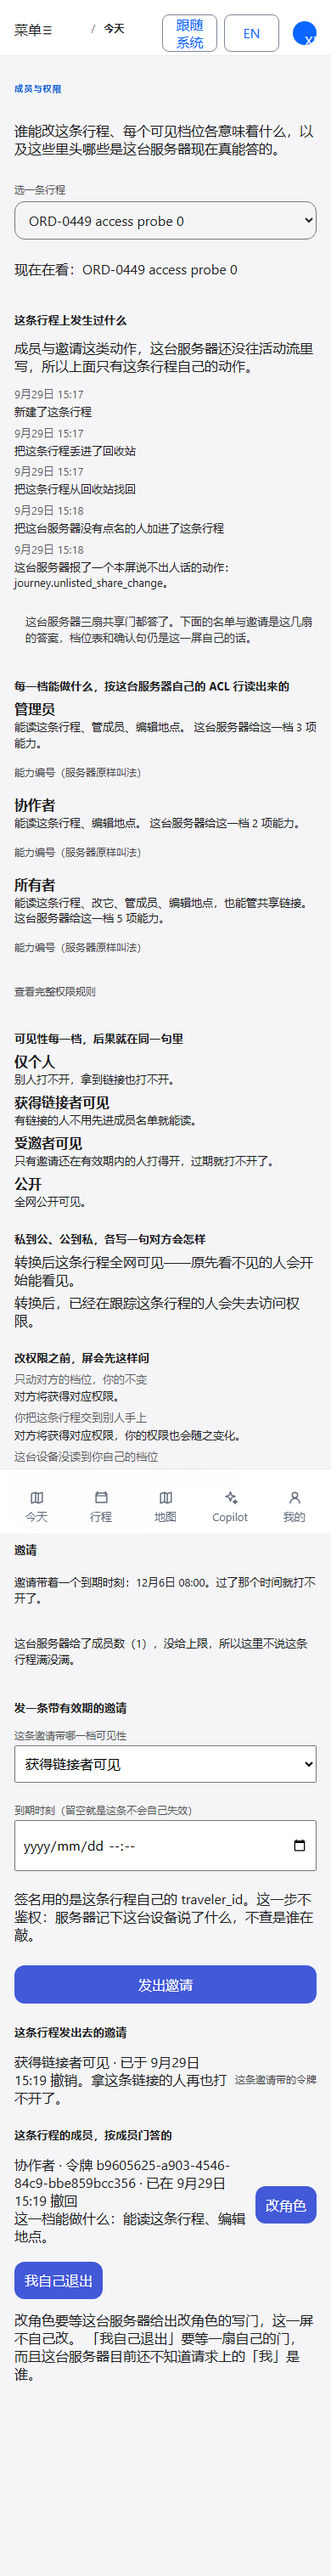
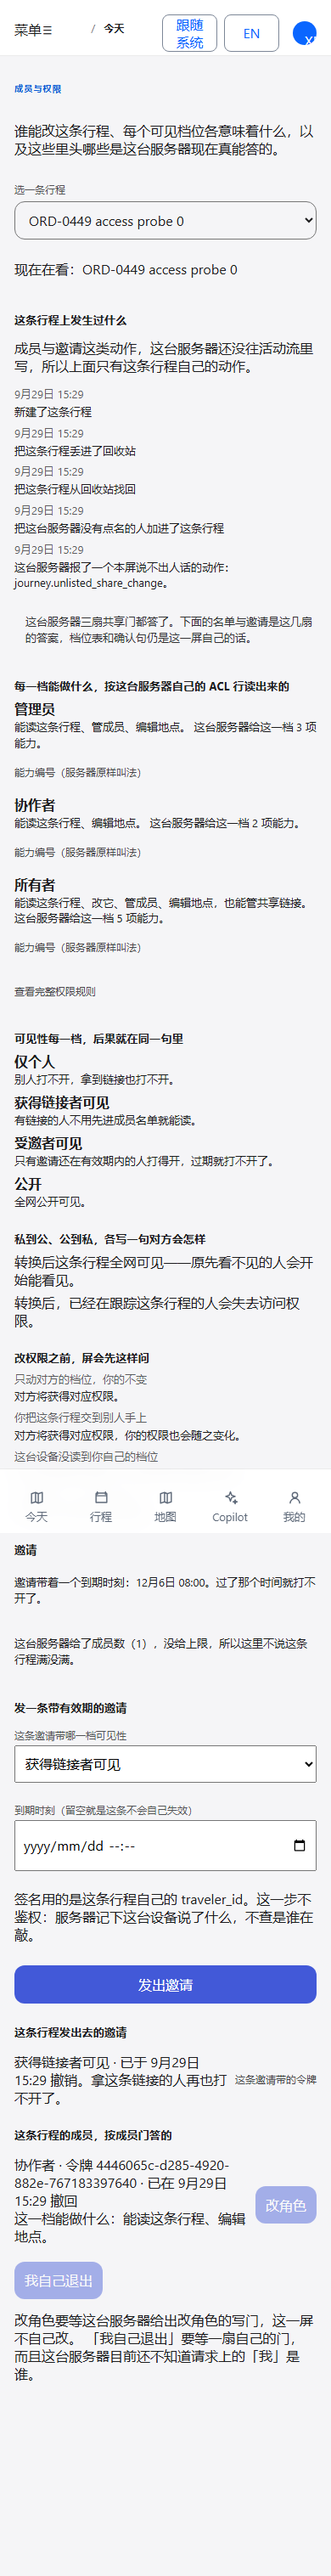
ORD-0462: a disabled control has to look disabled, and the reading checks that in the computed style
The screenshot of the previous commit showed 改角色 and 我自己退出 drawn exactly like the buttons that
work -- same ink, same border. `disabled` in the DOM is not what a traveller reads, so the panel
sheet now greys and dashes them with a not-allowed cursor, and the reading asserts the computed
`opacity < 1` and `cursor === "not-allowed"` in both arms rather than trusting the stylesheet.

Re-read on the rebuilt bundle: checks_total=30, PASS=30, FAIL=0, reader_exit=0, zh cjk=945, en cjk=0
/ latin=619, overflow_x=0, no page error.

Changed region(s): [[0.0308, 0.8368, 0.6769, 0.8988], [0.7692, 0.8368, 0.9538, 0.8678], [0.2154, 0.155, 0.2462, 0.2169]]

diff --git a/frontend/src/features/access/access.css b/frontend/src/features/access/access.css
@@ -195,3 +195,13 @@
     min-height: 30px;
   }
 }
+
+/* A disabled control has to look disabled: the screenshot showed the two buttons without doors
+   rendered exactly like the ones that work. Same ink, greyed, not-allowed pointer, and the reason
+   sentence beside them carries the meaning. */
+.cn-access-row-action:disabled,
+button.cn-access-row-action[disabled] {
+  opacity: 0.45;
+  border-style: dashed;
+  cursor: not-allowed;
+}
